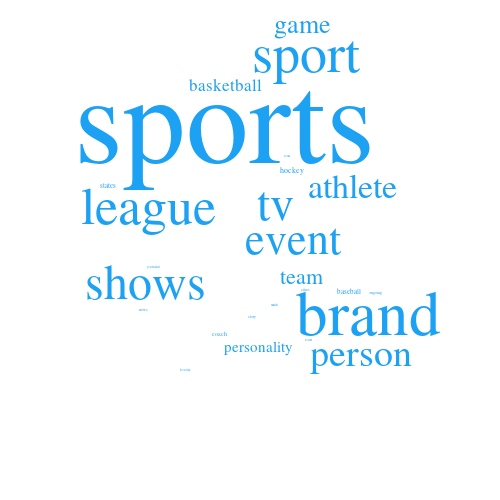
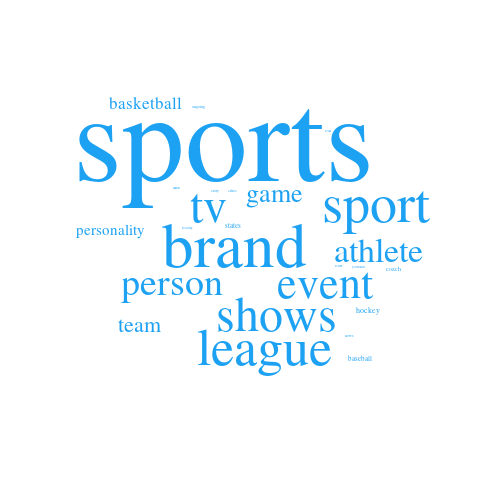
changing layout order

Changed region(s): [[0.15, 0.18, 0.87, 0.75], [0.36, 0.03, 0.72, 0.18], [0.24, 0.63, 0.33, 0.69]]

diff --git a/dash_test/assets/style.css b/dash_test/assets/style.css
@@ -45,6 +45,11 @@ section {
     height: 600px
 }
 
+.row3 {
+    display: flex;
+    overflow: hidden;
+}
+
 /* .row2 section:hover{
     background-color: #1DA1F2;
     color: white !important;

diff --git a/dash_test/app.py b/dash_test/app.py
@@ -107,7 +107,8 @@ def user_info(json_data, username):
     #https://twitter.com/barackobama/status/552767187694661632
 
     topTweetStr = '<blockquote class="twitter-tweet"><a href=https://twitter.com/user/status/' + json_data["most_popular_tweet"] + '></a></blockquote><script async src="https://platform.twitter.com/widgets.js" charset="utf-8"></script>'
-    posTweetStr = '<blockquote class="twitter-tweet"><a href=https://twitter.com/user/status/' + json_data["most_negative_tweet"]+ '></a></blockquote><script async src="https://platform.twitter.com/widgets.js" charset="utf-8"></script>'
+    posTweetStr = '<blockquote class="twitter-tweet"><a href=https://twitter.com/user/status/' + json_data["most_positive_tweet"]+ '></a></blockquote><script async src="https://platform.twitter.com/widgets.js" charset="utf-8"></script>'
+    negTweetStr = '<blockquote class="twitter-tweet"><a href=https://twitter.com/user/status/' + json_data["most_negative_tweet"]+ '></a></blockquote><script async src="https://platform.twitter.com/widgets.js" charset="utf-8"></script>'
 
     # MY STUFF ADDED HERE - sentiment: score between 0 and 1
     sentiment = 0.55
@@ -164,6 +165,20 @@ def user_info(json_data, username):
                     dcc.Graph(id="graph", figure=helpers.generate_chart(sentiment, username))
                     ]),
                 html.Section([
+                        html.H2("Your most negative tweet:"),
+                        html.Iframe(srcDoc = negTweetStr, height = 300, width = 400)
+                ])
+                ]),
+            html.Div(
+                className="row3",
+                children = [
+                html.Section([
+                        html.H2("Your most engaging topics"),
+                        html.Img(src = "assets/newscloud.png"),
+                        html.P("***Engagement scores:*** (can be added as text, potentially on hover)"),
+                        html.P(word_scores)
+                ]),
+                html.Section([
                     html.H2("You get the most engagement during these times..."),
                     dcc.Graph(
                         figure={
@@ -185,17 +200,8 @@ def user_info(json_data, username):
                             },
                         }
                     )
-                ])]),
-                html.Div(
-                    className="row3",
-                    children = [
-                    html.Section([
-                            html.H2("Your most engaging topics"),
-                            html.Img(src = "assets/newscloud.png"),
-                            html.P("***Engagement scores:*** (can be added as text, potentially on hover)"),
-                            html.P(word_scores)
-                    ]),
-                    ])
+                ])
+                ])
         ]),
         html.P(id='err', style={'color': 'red'}),
         html.P(id='out')
